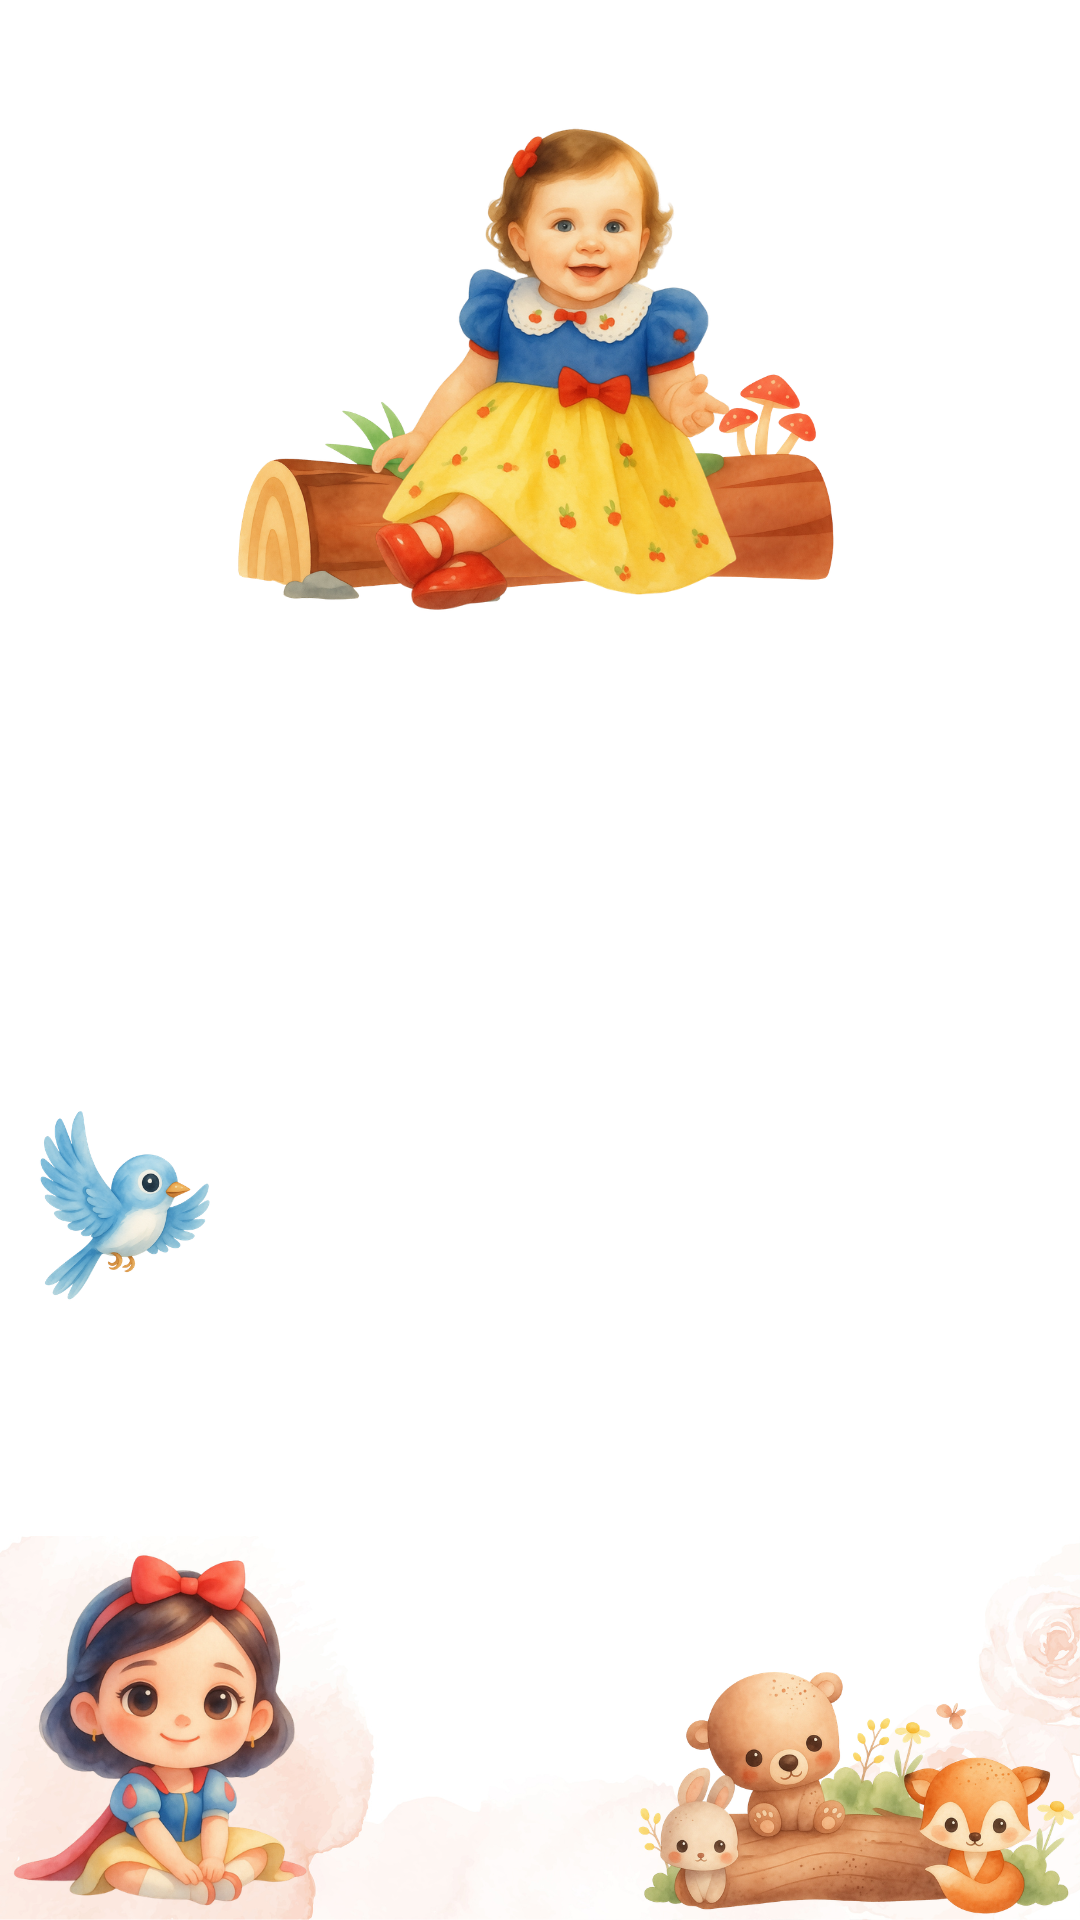
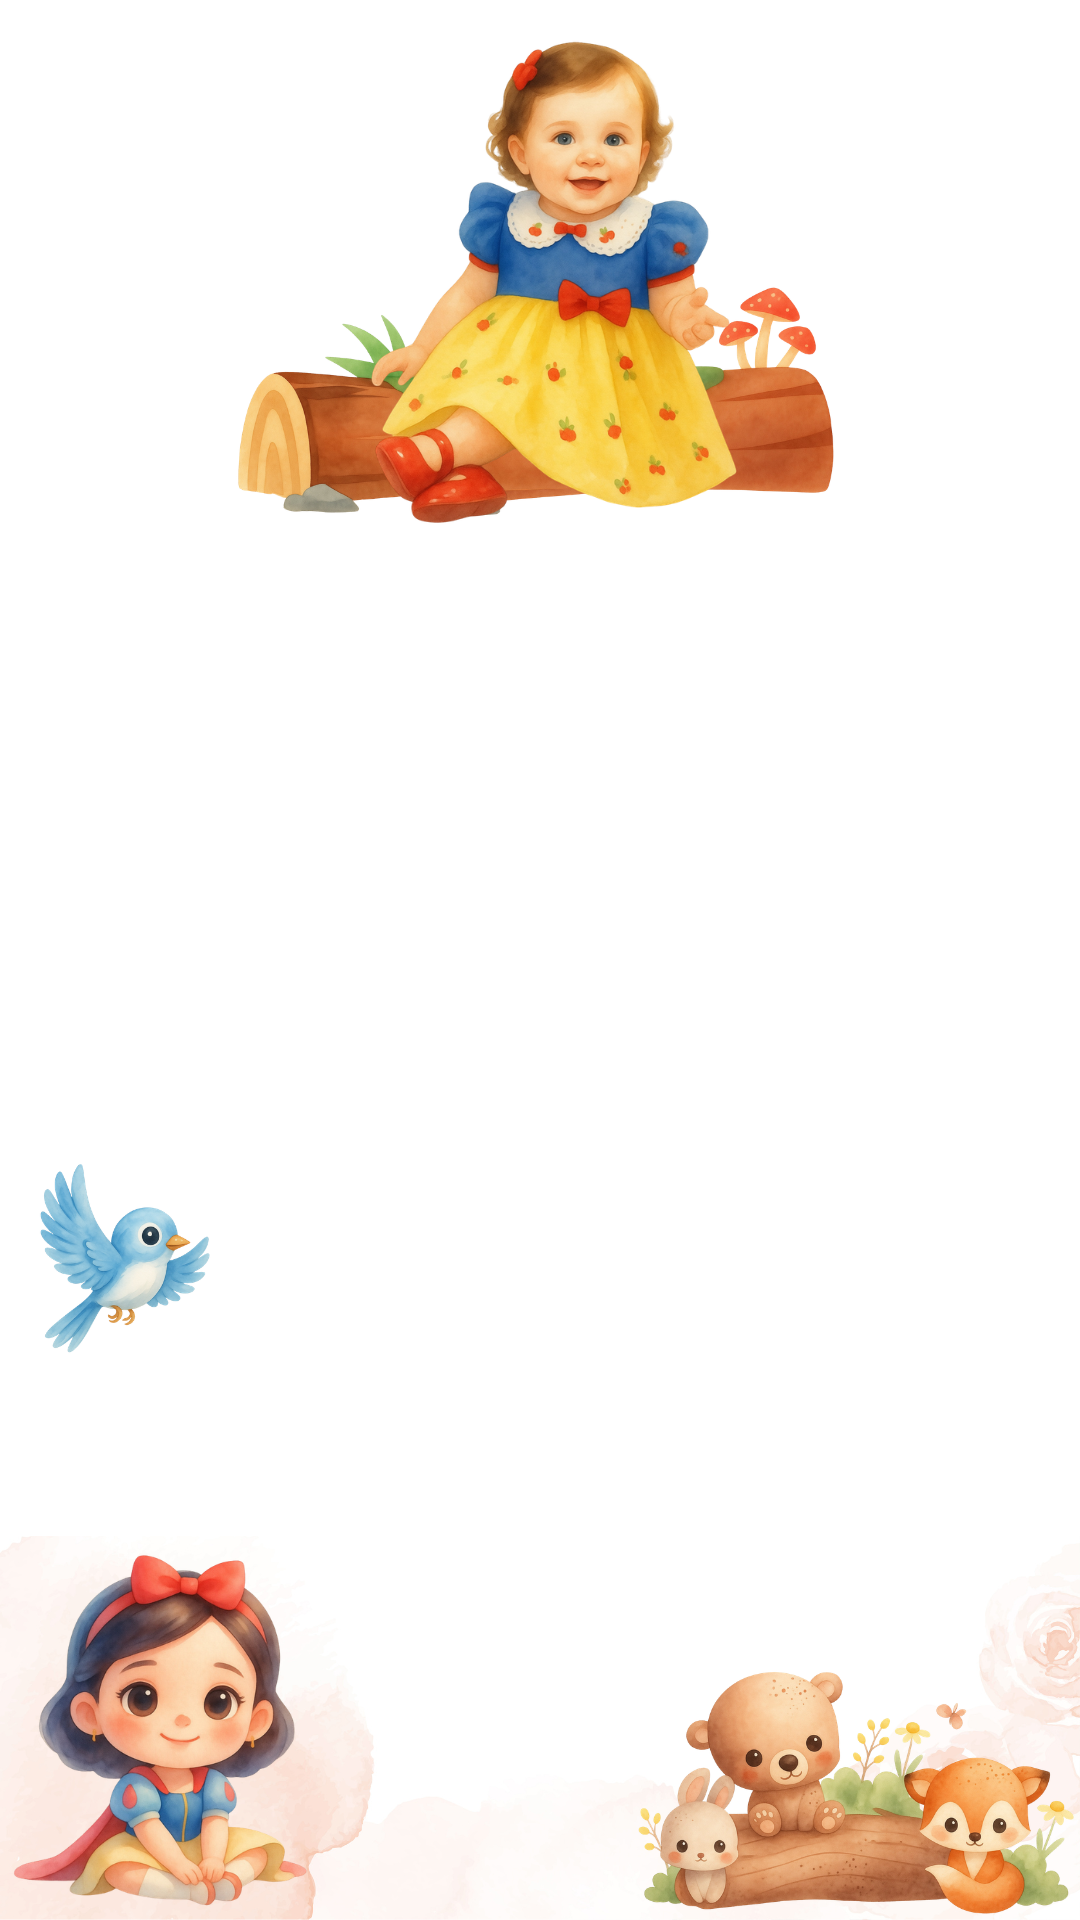
correção no hero

Changed region(s): [[0.2139, 0.0, 0.7944, 0.3438], [0.0306, 0.5625, 0.2139, 0.7188]]

diff --git a/src/App.tsx b/src/App.tsx
@@ -54,7 +54,7 @@ export default function App() {
       {/* Hero Section */}
       <section className="relative min-h-screen w-full flex flex-col items-center justify-center pt-20 px-6 text-center overflow-hidden">
         <div
-          className="absolute inset-0 bg-center bg-cover bg-no-repeat"
+          className="absolute inset-0 bg-center bg-contain bg-no-repeat"
           style={{ backgroundImage: `url(${heroImage})` }}
         />
         <div className="absolute inset-0 bg-gradient-to-b from-soft-cream/70 via-white/55 to-soft-cream/90" />
@@ -64,12 +64,11 @@ export default function App() {
           animate="visible"
           className="z-10"
         >
-          <motion.div 
-            variants={itemVariants}
-            className="mb-4 inline-block p-4 bg-white/40 rounded-full glass"
-          >
-            <Apple className="text-apple-red fill-apple-red animate-pulse" size={48} />
-          </motion.div>
+
+          <br />
+          <br />
+          <br />
+          <br />
           
           <motion.h1 
             variants={itemVariants}
@@ -82,7 +81,8 @@ export default function App() {
             variants={itemVariants}
             className="text-body text-lg md:text-xl text-slate-600 max-w-lg mx-auto mb-10 leading-relaxed"
           >
-            Venha celebrar esse dia especial com a gente!
+            Venha celebrar esse dia especial 
+            <br /> com a gente!
           </motion.p>
 
           <motion.a

diff --git a/src/components/Countdown.tsx b/src/components/Countdown.tsx
@@ -32,7 +32,7 @@ export const Countdown = () => {
   }, []);
 
   const TimeUnit = ({ value, label }: { value: number; label: string }) => (
-    <div className="flex flex-col items-center justify-center p-3 glass rounded-2xl min-w-[70px]">
+    <div className="flex flex-col items-center justify-center py-3 glass rounded-2xl min-w-[70px]">
       <motion.span
         key={value}
         initial={{ y: 10, opacity: 0 }}
@@ -51,8 +51,11 @@ export const Countdown = () => {
   return (
     <div className="flex gap-2 justify-center items-center py-8">
       <TimeUnit value={timeLeft.days} label="Dias" />
+      <span className="text-3xl font-body font-semibold text-apple-red/70">:</span>
       <TimeUnit value={timeLeft.hours} label="Horas" />
+      <span className="text-3xl font-body font-semibold text-apple-red/70">:</span>
       <TimeUnit value={timeLeft.minutes} label="Minutos" />
+      <span className="text-3xl font-body font-semibold text-apple-red/70">:</span>
       <TimeUnit value={timeLeft.seconds} label="Segundos" />
     </div>
   );
